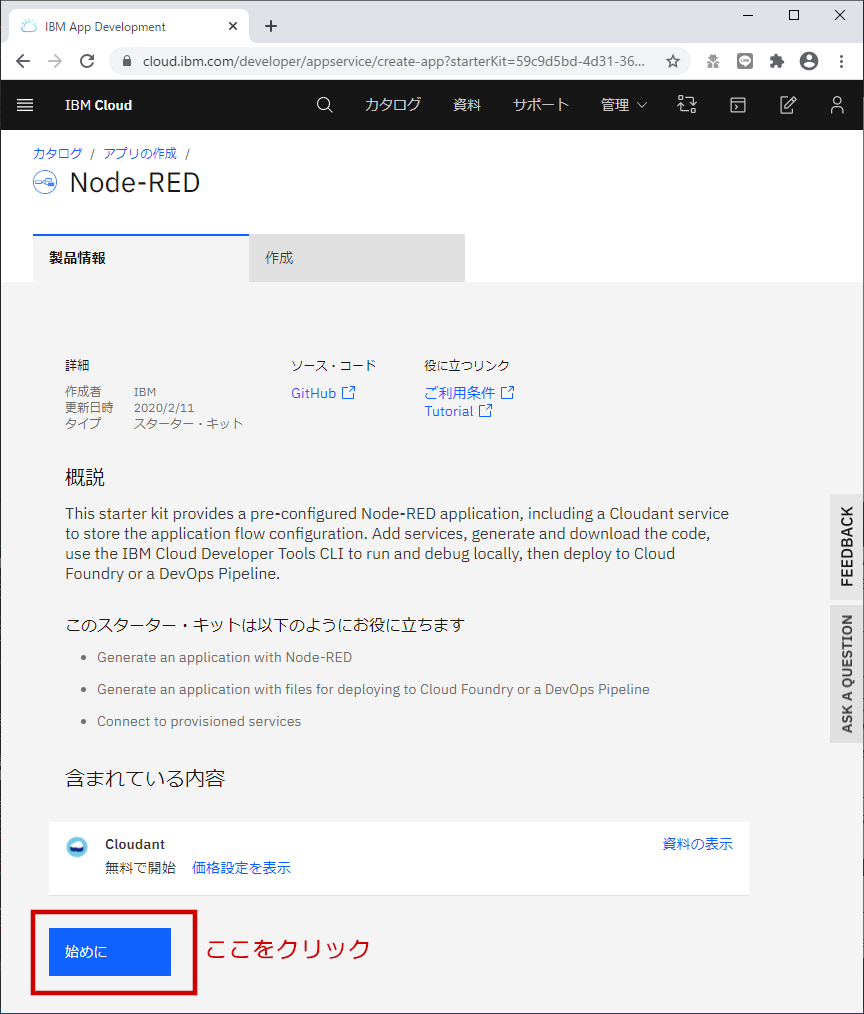
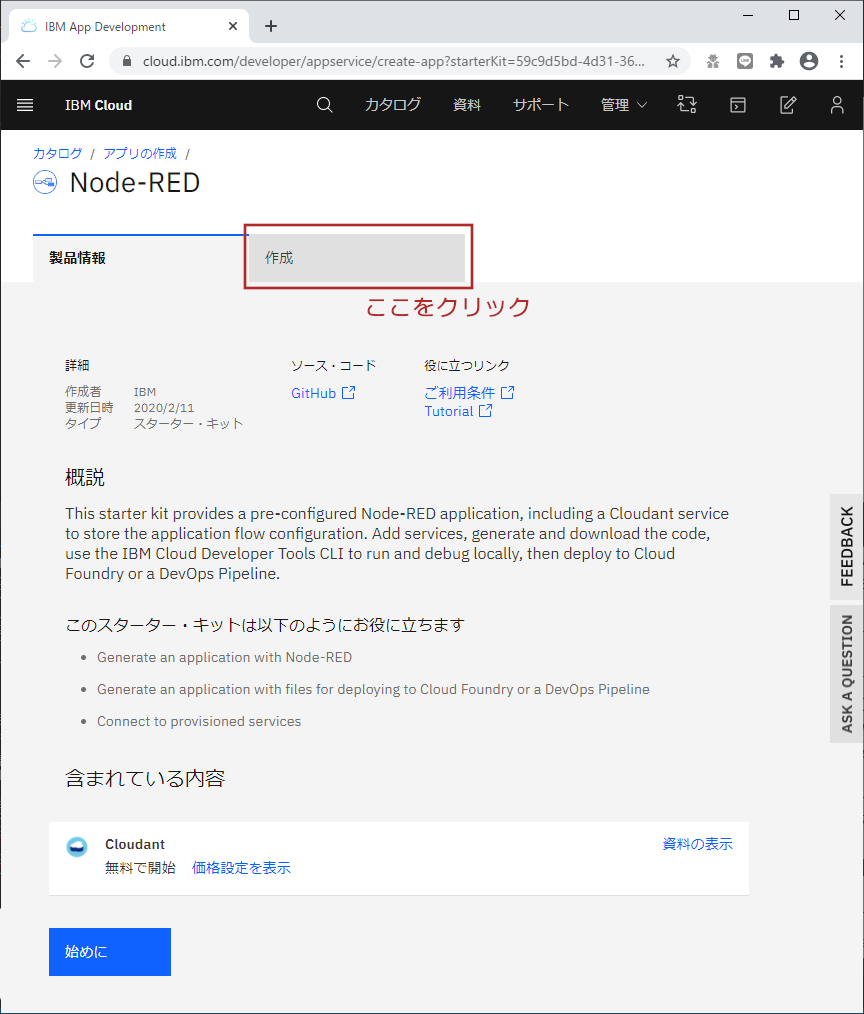
add link

Changed region(s): [[0.0312, 0.8866, 0.4375, 1.0], [0.2812, 0.214, 0.5625, 0.3057]]

diff --git a/README.md b/README.md
@@ -1,101 +1,110 @@
 <!-- Table of Contents -->
 
-
+- [開発・実行環境準備](#開発・実行環境準備)
+    - [Node-RED 用リソース追加](#Node-RED-用リソース追加)
+        - [IBM Cloud にログイン](#IBM-Cloud-にログイン)
+        - [Node-RED App の検索](#Node-RED-App-の検索)
+        - [アプリの作成](#アプリの作成)
+        - [IBM Cloud API 鍵設定](#IBM-Cloud-API-鍵設定)
+    - [Node-RED デプロイ](#Node-RED-デプロイ)
+        - [アプリのデプロイ](#アプリのデプロイ)
+- [Node-RED 設定](#Node-RED-設定)
+    - [URLアクセス](#URLアクセス)    
+    - [セットアップ](#セットアップ)
+- [Node-RED 実行](#Node-RED-実行)
+    - [トップ画面](#トップ画面)
+    - [ログイン](#ログイン)
+    - [フローエディター](#フローエディター)
 <!-- Table of Contents -->
 
 ## 開発・実行環境準備
-1. IBM Cloud にログインします。<br>
+### Node-RED 用リソース追加
+#### IBM Cloud にログイン <br>
 ログイン画面でユーザパスワードを入力すると「ダッシュボード」が表示されます。 <br>
 「リソースの追加」ボタンをクリックし、カタログ画面を表示します。
 ![](./img/010.png)
 
 
-2. Node-RED App の検索 <br>
+#### Node-RED App の検索 <br>
 [カタログを検索...] と表示されているエリアに `node-red` と入力します。すると、`Node-RED App` の候補が表示されるのでクリックします。
 ![](./img/030.png)
 
-3. アプリの作成１ <br>
+#### アプリの作成 <br>
 Node-RED アプリの作成画面が表示されます。内容を確認したうえで、画面上部「作成」タブをクリックします
 ![](./img/040.png)
 
-4. アプリの作成２ <br>
 Node-RED アプリを設定します。「アプリ名」の欄には任意のアプリケーション名を入力します。＜サービス詳細＞の「リージョンは「ダラス」を選択します。設定が終ったら「作成」ボタンをクリックします。
 ![](./img/060.png)
 
-5. アプリの作成３ <br>
 アプリ作成が完了するまで１分ほど待ちます
 ![](./img/070.png)
 
-6. アプリのデプロイ１ <br>
+### Node-RED デプロイ
+
+#### アプリのデプロイ <br>
 アプリの作成が完了すると、「アプリの詳細」画面に切り替わります。画面下部の「アプリのデプロイ」ボタンがクリックできるようになるまで、２～３分ほど待ちます
 ![](./img/080.png)
 
-7. アプリのデプロイ２ <br>
 「アプリのデプロイ」ボタンが有効になったら、クリックします。
 ![](./img/090.png)
 
-8. アプリのデプロイ３ <br>
+#### IBM Cloud API 鍵設定 <br>
 ＜デプロイメント自動化画面＞で `IBM Cloud API 鍵` を設定します。入力欄の右にある「新規＋」ボタンをクリックします。
 ![](./img/100.png)
 
-9. アプリのデプロイ４(APIキー作成ダイアログ) <br>
-API 鍵作成のダイアログが表示されるので、`OK` ボタンをクリックし API 鍵を作成します。
+＜API 鍵作成のダイアログ＞が表示されるので、`OK` ボタンをクリックし API 鍵を作成します。
 ![](./img/110.png)
 
-10. アプリのデプロイ５ <br>
 ＜デプロイメント自動化画面＞に戻るので、画面最下部の「次へ」ボタンが有効になるのを待ってからクリックします。
 ![](./img/120.png)
 
-11. アプリのデプロイ６ <br>
 ＜DevOpps ツールチェーンの構成＞画面で、画面下部の「作成」ボタンをクリックします。
 ![](./img/130.png)
 
-12. アプリのデプロイ７ <br>
 ＜アプリの詳細＞画面に戻るので、画面下部「デプロイメント自動化」の <状況ステータス>が **成功** になるまで、５分ほど待ちます。
 ![](./img/140.png)
 ![](./img/160.png)
 
-13. Node-RED セットアップ１ <br>
+## Node-RED 設定
+
+#### URLアクセス <br>
 Node-RED の準備が整っているので、画面左上の「ハンバーガーメニュ」から `ダッシュボード` を選択します。
 ![](./img/170.png)
 
-14. Node-RED セットアップ２ <br>
 ＜ダッシュボード＞で、`Cloud Foundry アプリ` をクリックします。
 ![](./img/200.png)
 
-15. Node-RED セットアップ３ <br>
 ＜リソース・リスト＞画面で、Node-RED のアプリを選択します。
 ![](./img/210.png)
 
-16. Node-RED セットアップ４ <br>
 Cloud Foundry アプリ 詳細画面で、画面上にある `アプリURLにアクセス` をクリックします。
 ![](./img/220.png)
 
-17. Node-RED セットアップ５ <br>
+#### セットアップ<br>
+
 Node-RED アプリが別ウインドウ（別タブ）で表示されます。画面下部の「Next」ボタンをクリックします。
 ![](./img/300.png)
 
-18. Node-RED セットアップ６ <br>
 Node-RED にログインするための、ユーザ名とパスワードを設定します。ユーザ認証無しで利用することも可能ですが、だれもがプログラムフローを編集できる状態になってしまうので、ユーザパスワードを設定することをオススメします。
 ![](./img/310.png)
 
-19. Node-RED セットアップ７ <br>
 ノードの追加について説明が表示されるので、画面下部の「Next」ボタンをクリックします。
 ![](./img/320.png)
 
-20. Node-RED セットアップ８ <br>
 Node-RED のセットアップ完了と、ユーザパスワードの変更に関する説明が表示されます。内容を確認したうえで画面下部の「Finish」ボタンをクリックします。
 ![](./img/330.png)
 
-21. Node-RED 実行 <br>
+## Node-RED 実行
+
+#### トップ画面
 しばらく待つと Node-RED のトップ画面が表示されます。「Go to your Node-RED flow Editor」ボタンをクリックします。
 ![](./img/350.png)
 
-22. Node-RED 実行 <br>
-Node-RED のログイン画面が表示されるので、セットアップ時に設定したユーザパスワードを入力し、「ログイン」ボタンをクリックします。
+#### ログイン
+2ode-RED のログイン画面が表示されるので、セットアップ時に設定したユーザパスワードを入力し、「ログイン」ボタンをクリックします。
 ![](./img/360.png)
 
-23. Node-RED 実行 <br>
+#### フローエディター
 Node-RED フローエディターが表示されます。Node-RED のステキな世界をお楽しみくださいっ！
 ![](./img/370.png)
 
